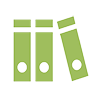
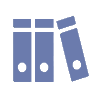
修改了header的图标颜色和logo

diff --git a/src/main/resources/templates/homepage.html b/src/main/resources/templates/homepage.html
@@ -18,24 +18,175 @@
             margin:0 auto;
         }
         .nav{
-            height: 50px;
-            background-color: aqua;
+            height: 40px;
+            background-color: #ffffff;
         }
         .view{
             height: 1000px;
         }
         .pic img{
             width: 1400px;
-            height:750px;
+            height:650px;
         }
     </style>
 </head>
-<header>
-    <a href="/my">
-                    <span class="header_title_text">
-                        个人主页
-                    </span>
-    </a>
+<!--<header>-->
+    <!--<a href="/my">-->
+                    <!--<span class="header_title_text">-->
+                        <!--个人主页-->
+                    <!--</span>-->
+    <!--</a>-->
+<!--</header>-->
+<header class="" th:fragment="copy">
+    <link rel="stylesheet" href="/css/header.css"/>
+    <div>
+        <input type="hidden" th:value="${action}"/>
+        <input type="hidden" th:if="${userInformation.phone}==null" id="user_name_a" value="wsk"/>
+        <input type="hidden" th:if="${userInformation.phone}!=null" th:value="${userInformation.phone}" id="user_name_a"
+               value="wsk"/>
+        <img src="/image/new_logo.PNG" style="position: relative;left: 190px; padding-left: 10px; float: left; width: 14.2em;height: 1.57em" class="header_title_img"/>
+        <!--<a href="/home">-->
+        <!--<span class="header_title_text" style="margin-left: 10px">-->
+        <!--影伴-->
+        <!--</span>-->
+        <!--</a>-->
+        <ul class="show_header">
+            <li class="header_home">
+                <span class="">
+                    <a href="/homepage" class="header_home_current header_current" th:if="${action}==1">
+                        <img src="/image/home_current.png" class="img_home"/>首页
+                    </a>
+                    <a href="/homepage" class="header_home_current " th:if="${action}!=1">
+                        <img src="/image/home.png" class="img_home"/>首页
+                    </a>
+                </span>
+            </li>
+            <li class="header_hot">
+                <span class="header_hot_current header_current" th:if="${action}==2">
+                    <a href="/hot/critic" class="header_current"><img src="/image/hot_current.png"
+                                                                      class="img_hot"/>热门</a>
+                </span>
+                <span class="header_hot_current" th:if="${action}!=2">
+                    <a href="/hot/critic"><img src="/image/hot.png" class="img_hot"/>热门</a>
+                </span>
+            </li>
+            <li class="header_home" id="header_music">
+                <span class="">
+                    <a href="" class="header_music_current header_current" th:if="${action}==6">
+                        <img src="/image/music_current.png" class="img_music"/>音乐
+                    </a>
+                    <a href="/music/hot/1" class="header_music_current " th:if="${action}!=6">
+                        <img src="/image/music.png" class="img_music"/>音乐
+                    </a>
+                </span>
+                <ul id="music_menu" style="z-index: 9999">
+                    <li class="menu_li">
+                        <a href="/music/hot/1">
+                            热歌榜单
+                        </a>
+                    </li>
+                    <li class="menu_li">
+                        <a href="/music/hot/2">
+                            飙升榜单
+                        </a>
+                    </li>
+                    <li class="menu_li">
+                        <a href="/music/hot/3">
+                            新歌榜单
+                        </a>
+                    </li>
+                </ul>
+            </li>
+            <li class="header_home">
+                <span class="">
+                    <a href="/book/init" class="header_book_current header_current" th:if="${action}==7">
+                        <img src="/image/book_current.png" class="img_book"/>图书
+                    </a>
+                    <a href="/book/init" class="header_book_current " th:if="${action}!=7">
+                        <img src="/image/book.png" class="img_book"/>图书
+                    </a>
+                </span>
+            </li>
+            <li class="header_hot" id="header_movie">
+                <span class="header_hot_current header_current" th:if="${action}==3">
+                    <img src="/image/movie_current.png"
+                         class="img_hot"/>电影
+                </span>
+                <span class="header_hot_current" th:if="${action}!=3">
+                    <img src="/image/movie.png" class="img_hot"/>电影
+                </span>
+                <ul id="movie_menu" style="z-index: 9999">
+                    <li class="menu_li">
+                        <a href="/coming/soon">
+                            即将上映
+                        </a>
+                    </li>
+                    <li class="menu_li">
+                        <a href="/top">
+                            高分电影
+                        </a>
+                    </li>
+                    <li class="menu_li">
+                        <a href="/coming">
+                            正在上映
+                        </a>
+                    </li>
+                    <li class="menu_li">
+                        <a href="/us/box">
+                            北美票房
+                        </a>
+                    </li>
+                </ul>
+            </li>
+            <li class="header_information" value="0">
+                <span class="header_information_current header_current" th:if="${action}==4">
+                    <img src="/image/information_current.png" class="img_information"/>信息
+                </span>
+                <span class="header_information_current" th:if="${action}!=4">
+                    <img src="/image/information.png" class="img_information"/>信息
+                </span>
+            </li>
+            <li class="header_set" style="">
+                <span class="header_set_current header_current" th:if="${action}==5">
+                    <img src="/image/set_current.png" class="img_set"/>设置
+                </span>
+                <span class="header_set_current" th:if="${action}!=5">
+                    <img src="/image/set.png" class="img_set"/>设置
+                </span>
+                <!--<div class="header_set_ul">-->
+                <ul class="menu" style="z-index: 9999">
+                    <li class="menu_li header_setting">
+                        <a href="/accountSettings">
+                            账号设置
+                        </a>
+                    </li>
+                    <li class="menu_li header_safety">
+                        <a href="/my">
+                            个人主页
+                        </a>
+                    </li>
+                    <li class="menu_li header_feedback" id="idea">
+                        <a href="#">
+                            意见反馈
+                        </a>
+                    </li>
+                    <li class="menu_li header_help" id="help">
+                        <a href="#" >
+                            帮助中心
+                        </a>
+                    </li>
+                    <li class="menu_li header_logout">
+                        <a href="/logout">
+                            退出
+                        </a>
+                    </li>
+                </ul>
+            </li>
+        </ul>
+    </div>
+    <input type="hidden" id="uid" th:value="${userInformation.id}" value="0"/>
+    <script src="/js/header.js">
+    </script>
 </header>
 <body><!--首页的设置，对象有movie，对应Hot类,可以获得上映电影相关信息，用法可以见下例；其他可见UserInformationController.java的homepage方法-->
 <div class="nav"></div>

diff --git a/src/main/resources/templates/header.html b/src/main/resources/templates/header.html
@@ -8,7 +8,7 @@
         <input type="hidden" th:if="${userInformation.phone}==null" id="user_name_a" value="wsk"/>
         <input type="hidden" th:if="${userInformation.phone}!=null" th:value="${userInformation.phone}" id="user_name_a"
                value="wsk"/>
-        <img src="/image/logo1.PNG" style="width: 5.2em;height: 1.5em" class="header_title_img"/>
+        <img src="/image/new_logo.PNG" style="position: relative;left: 190px; padding-left: 10px; float: left; width: 14.2em;height: 1.57em" class="header_title_img"/>
         <!--<a href="/home">-->
                     <!--<span class="header_title_text" style="margin-left: 10px">-->
                         <!--影伴-->

diff --git a/src/main/resources/templates/movie/hot_movie_information.html b/src/main/resources/templates/movie/hot_movie_information.html
@@ -2,7 +2,7 @@
 <html lang="en" xmlns:th="http://www.thymeleaf.org">
 <head>
     <meta charset="UTF-8"/>
-    <title th:text="${movie.getData().getMovieDetailModel().getNm()}+'(瓢虫微生活)'">详情</title>
+    <title th:text="'Coviewer-'+${movie.getData().getMovieDetailModel().getNm()}">详情</title>
     <link rel="stylesheet" href="/css/movieInformation.css"/>
     <link rel="stylesheet" href="/css/all.css"/>
     <link href="/image/CoViewer.png" rel="icon"/>
